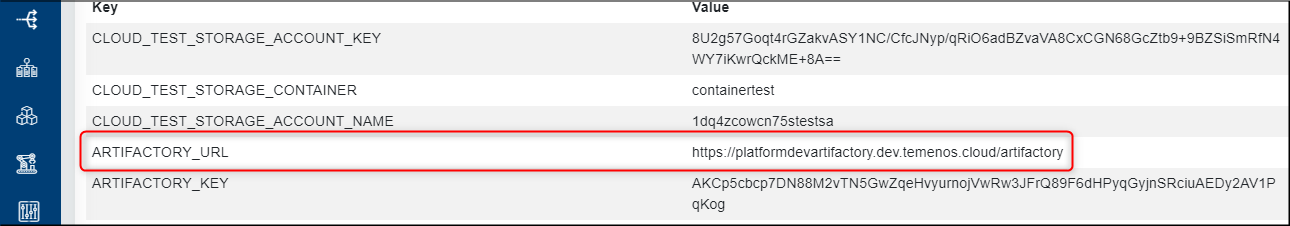
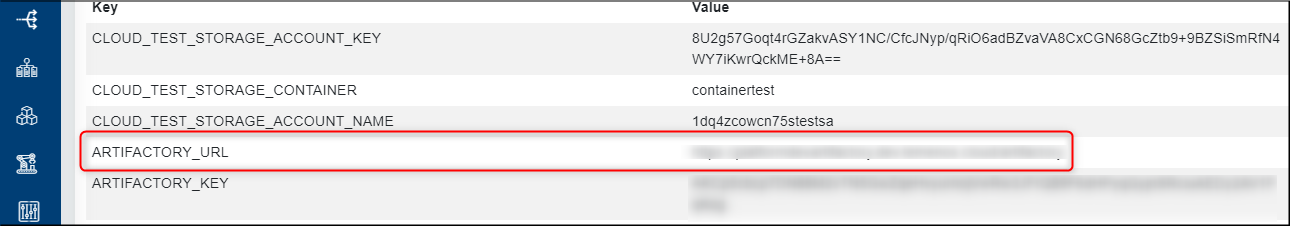
build-361

Changed region(s): [[0.5271, 0.7743, 0.9922, 0.8673], [0.5271, 0.6504, 0.8372, 0.7124], [0.5271, 0.8673, 0.5581, 0.9292]]

diff --git a/home/techguides/components-products.html b/home/techguides/components-products.html
@@ -5,9 +5,9 @@
   <head>
     <meta charset="utf-8">
     <meta http-equiv="X-UA-Compatible" content="IE=edge,chrome=1">
-    <title>Component Type </title>
+    <title>Components &#8211; Feature Description </title>
     <meta name="viewport" content="width=device-width">
-    <meta name="title" content="Component Type ">
+    <meta name="title" content="Components &#8211; Feature Description ">
     <meta name="generator" content="docfx 2.22.2.0">
     
     <link rel="shortcut icon" href="../../favicon.ico">
@@ -20,7 +20,7 @@
     <meta property="docfx:rel" content="../../">
     
   </head>
-  <body data-spy="scroll" data-target="#affix" class="Component Type ">
+  <body data-spy="scroll" data-target="#affix" class="Components &#8211; Feature Description ">
     <div id="wrapper">
       <header>
         
@@ -79,9 +79,9 @@
         <div class="article row grid-right">
           <div class="col-md-10">
             <article class="content wrap" id="_content" data-uid="">
+<h1 id="components--feature-description">Components – Feature Description</h1>
 
-<pre><code>                                                             # Components – Feature Description #
-</code></pre><p>Components are individually deployable units that are understood by Temenos Continuous Deployment Platform based on the component type that each component refers to. </p>
+<p>Components are individually deployable units that are understood by Temenos Continuous Deployment Platform based on the component type that each component refers to. </p>
 <p>Each component is associated to a component type to help Temenos Continuous Deployment Platform deploy the component. </p>
 <p>The <strong>Component Type</strong> field in the component data is the key to help the Temenos Continuous Deployment Platform Controllers deploy the right components in the right way. 
 An organization can define as many components as needed but should have all mandatory components defined in the templates that are assigned to the organization.</p>
@@ -187,11 +187,10 @@ Also the binaries/ artifacts have to be uploaded each time a component is update
 <p>In order to invoke that Artifactory API a CURL command must be executed (this can be run manually from a linux VM or from a bash script).</p>
 <pre><code>curl -H &quot;X-JFrog-Art-Api:&lt;ArtifactoryKey&gt;&quot; -X PUT &quot;&lt;DestinationURL&gt;&quot; -T &lt;fileToUpload&gt;
 </code></pre><ul>
-<li><p>The <strong>ArtifactoryKey</strong> can be taken from the TCD portal (go to General and take the value of ARTIFACTORY_KEY record):
-<img src="images/components-and-products-artifactorykey.png" alt=""></p>
+<li><p>The <strong>ArtifactoryKey</strong> can be taken from the TCD portal (go to General and take the value of ARTIFACTORY_KEY record):</p>
 </li>
 <li><p><strong>DestinationURL</strong> represents the exact location of the file that will be uploaded in the artifactory together with the name of the binary. For this operation, you need to take the exact path of the artifactory from the TCD portal from the Upload URL field that is displayed on the screen after the component is created:
-<img src="images/components-and-products-uploadurl.png" alt=""></p>
+<img src="./images/components-and-products-uploadurl.png" alt=""></p>
 </li>
 <li><p><strong>fileToUpload</strong> represents the binary that should be uploaded from your local machine and it must contain also the path where is present.</p>
 </li>
